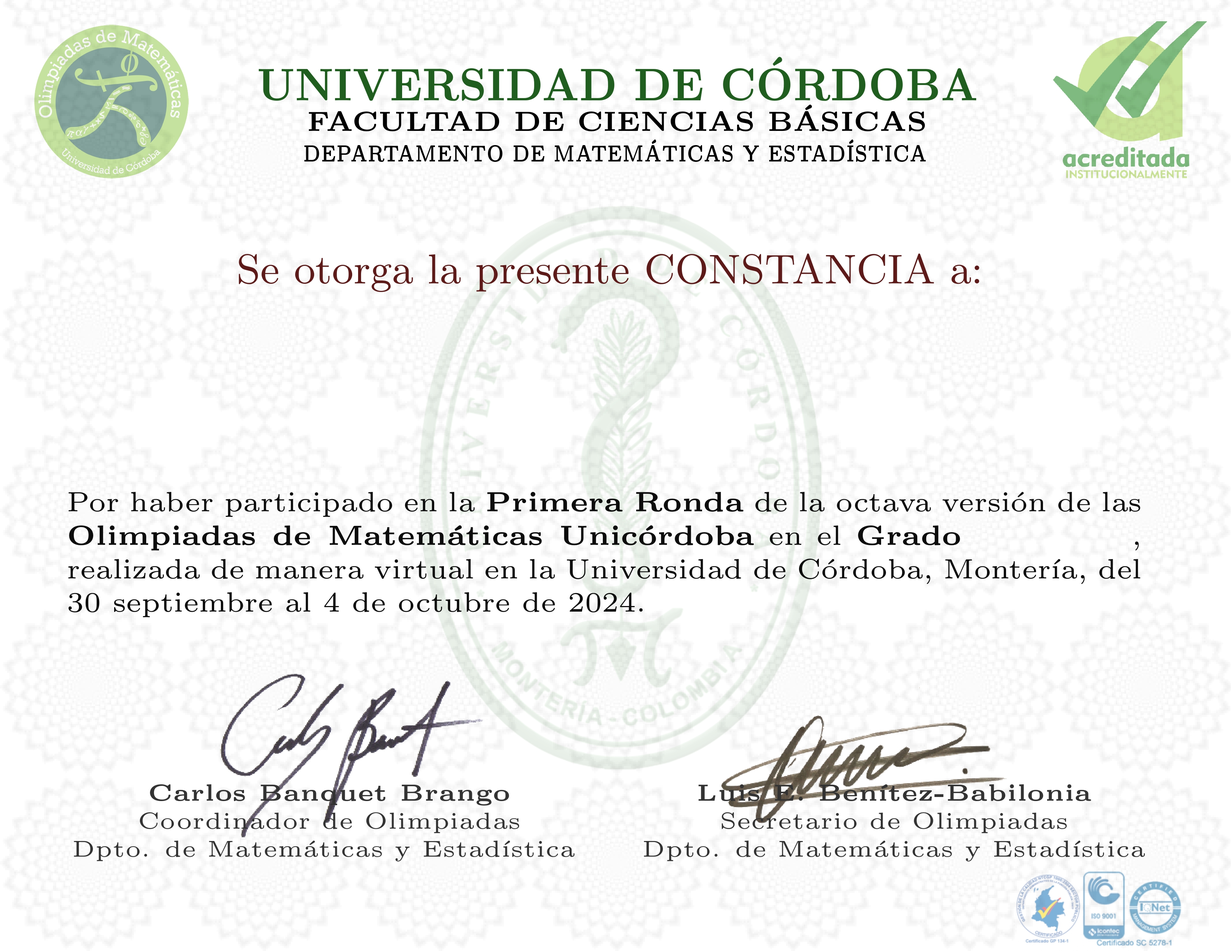
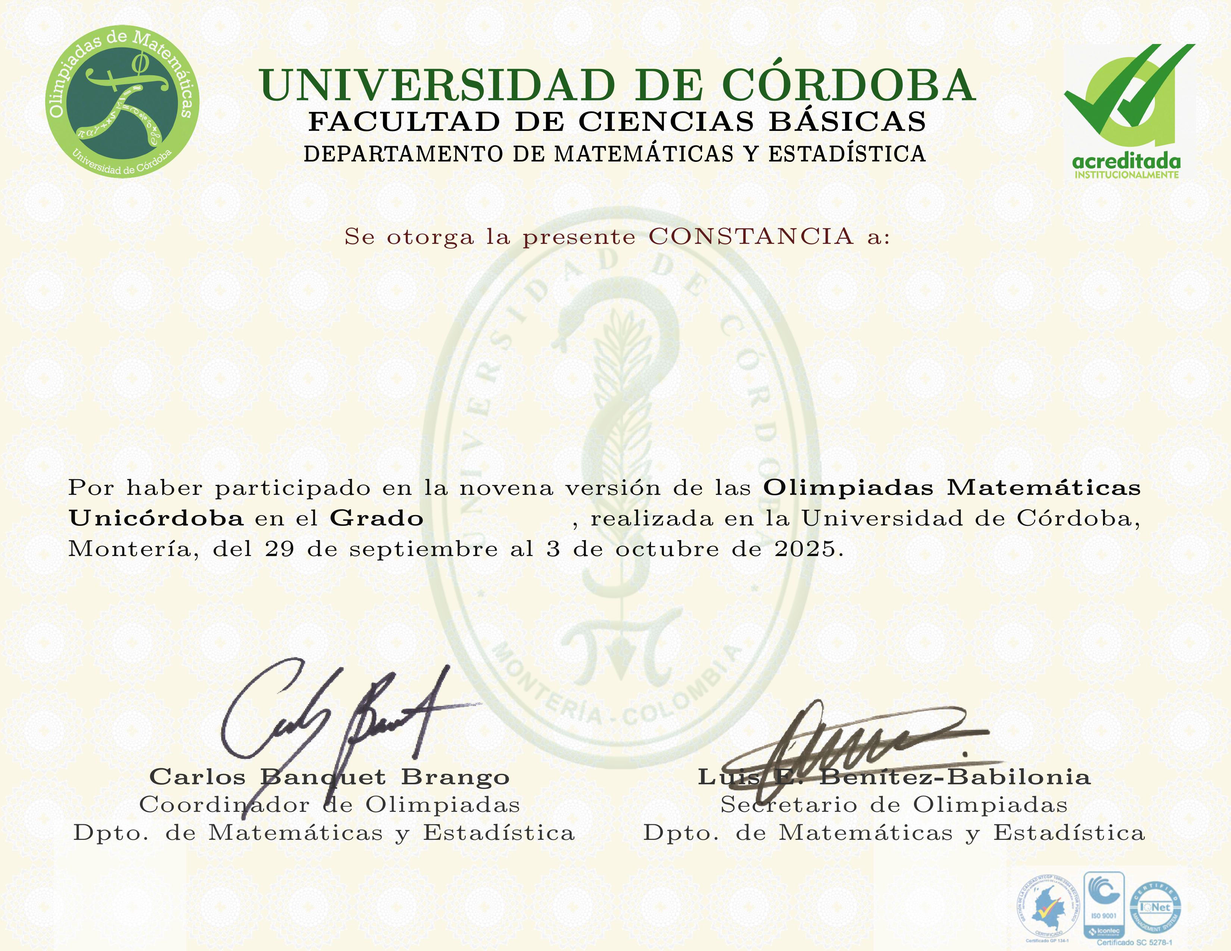
Refactor code structure for improved readability and maintainability

diff --git a/certificado_PDF.php b/certificado_PDF.php
@@ -60,10 +60,10 @@
         $pdf-> Cell('150','8','','0');
         $pdf-> ln(15);
         
-        $pdf->SetXY(103, 118);
+        $pdf->SetXY(1, 114);
         $pdf-> SetFont('Times','','18');
         $pdf->SetTextColor(20, 90, 50);
-        $pdf-> Cell('257','8',strtoupper($grado),'0','','C');
+        $pdf-> Cell('223','8',strtoupper($grado),'0','','C');
 
         ob_end_clean();
         $pdf->Output('I');
